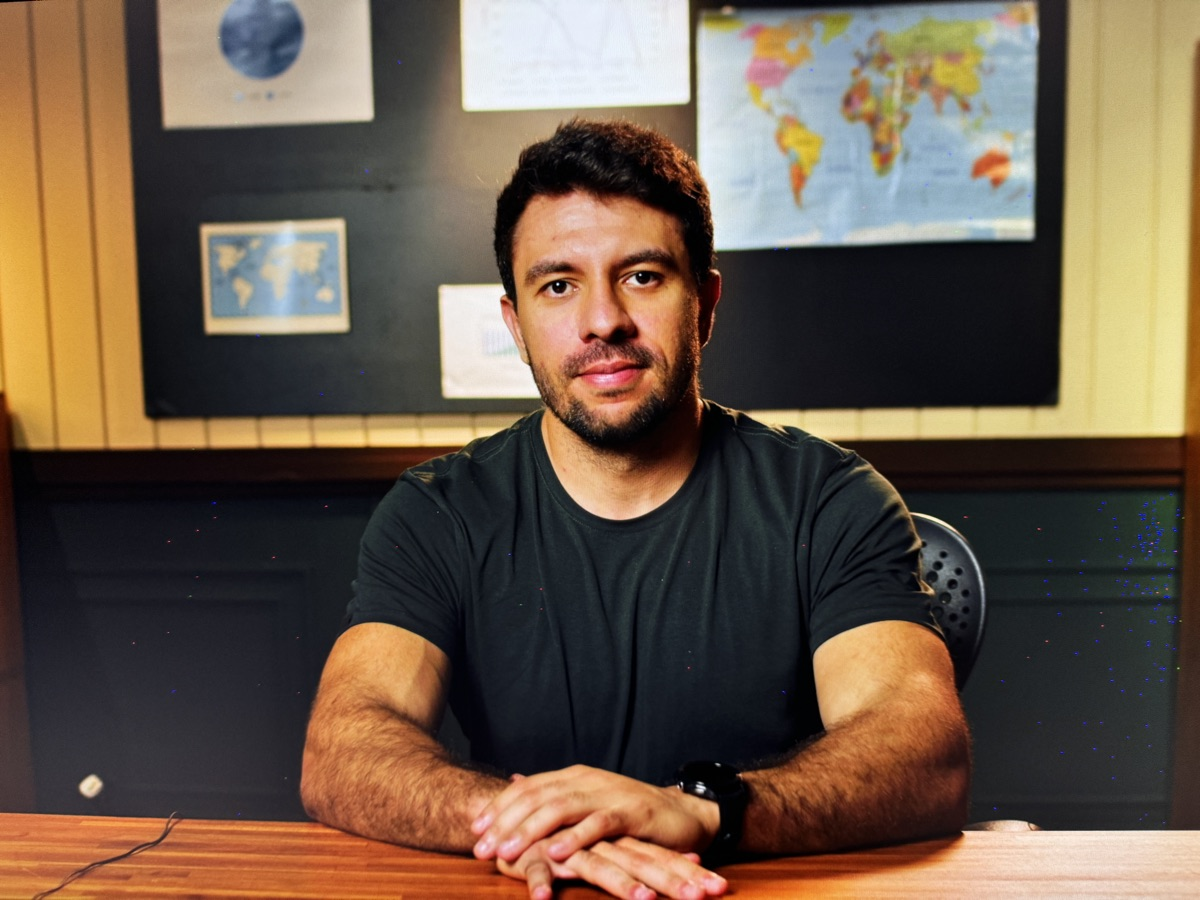
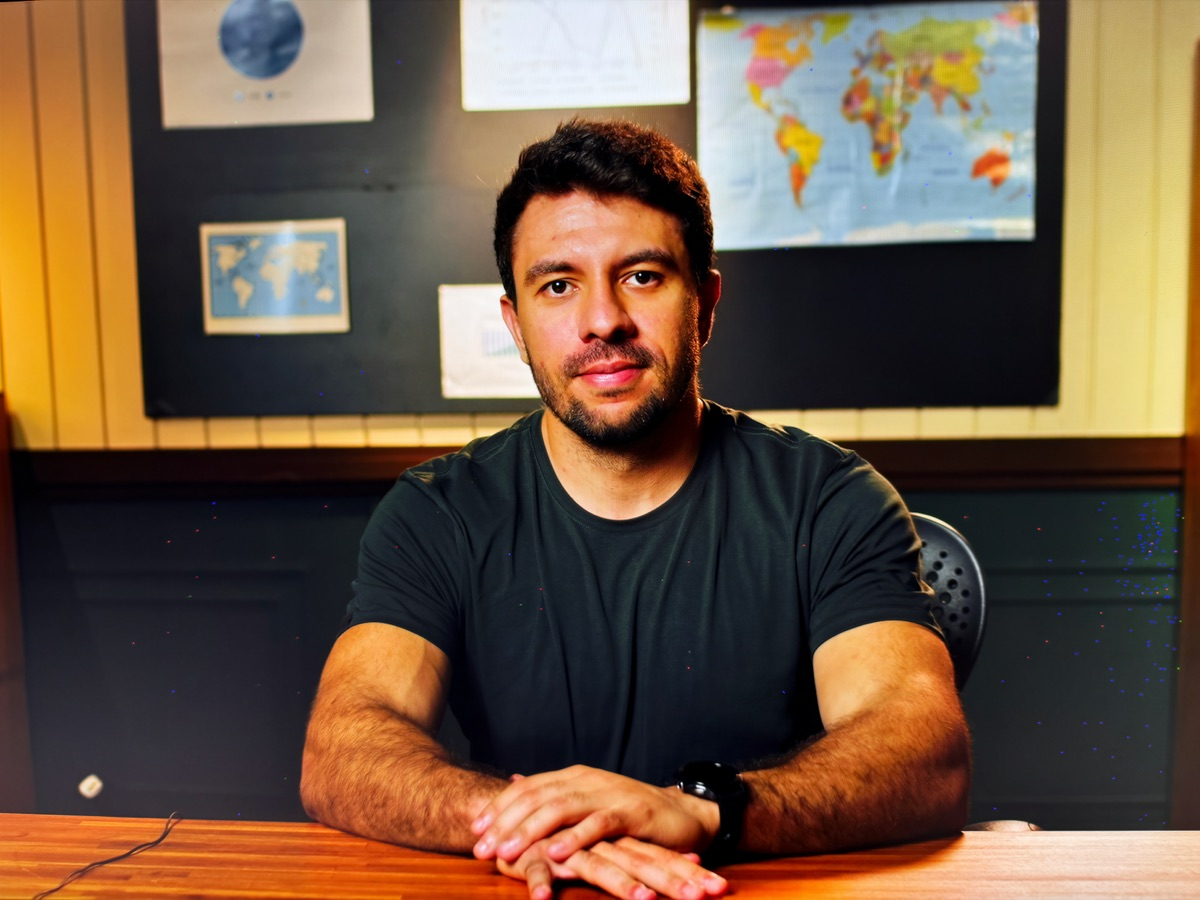
fix: sobreposição do hint do Hero e atualiza fotos de Felipe e Victor
Move o hint 'Role para transformar' pro fluxo normal do conteúdo em
vez de position:absolute, eliminando a colisão com o CTA de vez
(independente da altura da viewport). Atualiza as fotos dos
fundadores Felipe e Victor com os arquivos novos enviados.

diff --git a/style.css b/style.css
@@ -48,7 +48,7 @@ header{position:fixed;top:0;left:0;right:0;z-index:100;display:flex;align-items:
 
 /* ---------- hero ---------- */
 #hero{height:230vh;position:relative}
-.hero-sticky{position:sticky;top:0;height:100vh;overflow:hidden;display:flex;align-items:center;justify-content:center;padding-top:84px;padding-bottom:78px;box-sizing:border-box}
+.hero-sticky{position:sticky;top:0;height:100vh;overflow:hidden;display:flex;align-items:center;justify-content:center;padding-top:84px;padding-bottom:24px;box-sizing:border-box}
 .hero-glow{position:absolute;inset:0;background:radial-gradient(900px 600px at 72% 42%,rgba(245,208,59,0.07),transparent 60%)}
 .hero-inner{width:min(1100px,92vw);display:flex;flex-direction:column;align-items:center;position:relative}
 .hero-kicker{font-family:'Instrument Serif',serif;font-style:italic;font-size:18px;color:rgba(242,243,238,0.55);margin:0 0 16px}
@@ -72,7 +72,7 @@ header{position:fixed;top:0;left:0;right:0;z-index:100;display:flex;align-items:
 #phone{transform-origin:top center;width:402px;height:874px;transform:scale(0.62);margin-left:-76px;filter:drop-shadow(0 30px 60px rgba(0,0,0,0.6))}
 .hero-cta-row{display:flex;align-items:center;gap:20px;margin-top:36px}
 .hero-cta-note{font-size:13px;color:rgba(242,243,238,0.45)}
-#hint{position:absolute;bottom:26px;left:50%;transform:translateX(-50%);display:flex;flex-direction:column;align-items:center;gap:8px;color:rgba(242,243,238,0.4);font-size:11px;letter-spacing:0.2em;text-transform:uppercase}
+#hint{margin-top:28px;display:flex;flex-direction:column;align-items:center;gap:8px;color:rgba(242,243,238,0.4);font-size:11px;letter-spacing:0.2em;text-transform:uppercase}
 #hint svg{animation:vmlBounce 1.8s ease-in-out infinite}
 
 /* iOS device frame */

diff --git a/index.html b/index.html
@@ -128,10 +128,10 @@
         <a href="#aplicar" class="btn">Quero Aplicar</a>
         <span class="hero-cta-note">Para negócios acima de R$ 500 mil/ano</span>
       </div>
-    </div>
-    <div id="hint" data-r="hide900">
-      <span>Role para transformar</span>
-      <svg width="14" height="18" viewBox="0 0 14 18"><path d="M7 1v14M2 10l5 6 5-6" stroke="#F5D03B" stroke-width="1.6" fill="none" stroke-linecap="round" stroke-linejoin="round"></path></svg>
+      <div id="hint" data-r="hide900">
+        <span>Role para transformar</span>
+        <svg width="14" height="18" viewBox="0 0 14 18"><path d="M7 1v14M2 10l5 6 5-6" stroke="#F5D03B" stroke-width="1.6" fill="none" stroke-linecap="round" stroke-linejoin="round"></path></svg>
+      </div>
     </div>
   </div>
 </section>
